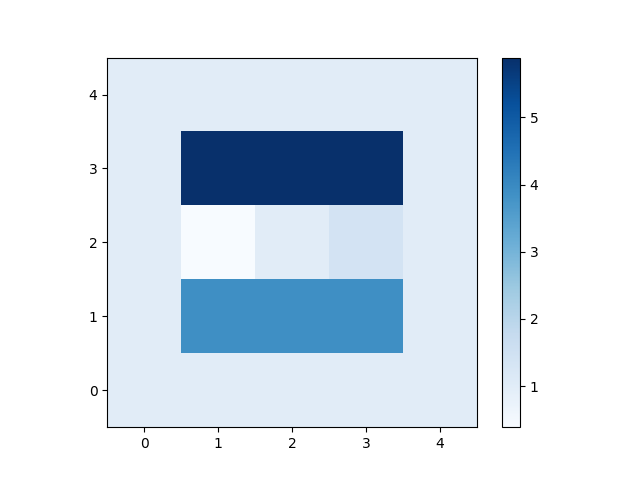
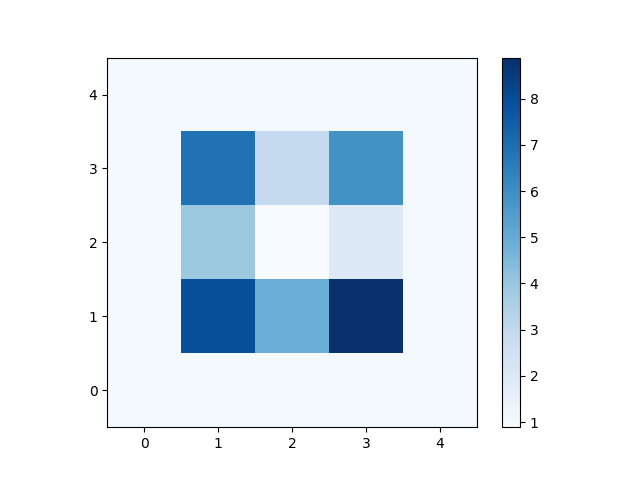
milestone 5 100%

diff --git a/milestone5.py b/milestone5.py
@@ -1,0 +1,72 @@
+import numpy as np
+import matplotlib.pyplot as plt
+from milestone2 import collision_term, W, rho, equilibruim_distribution, mu
+from milestone1 import direction, create_density_grid, animate, plot_density_grid, result_repo, streaming2D
+from milestone4 import set_couette_boundary_fixed
+import random
+
+# def equilibrium_distribution_efficient(rho, U_vector) :
+
+def set_poiseuille_boundary(probability_density_grid) :
+    Rhin = np.full(probability_density_grid.shape[1:], 1.1)
+    Rhout = np.full(probability_density_grid.shape[1:], .9)
+    
+    velocity_grid = mu(probability_density_grid)
+    
+    
+    
+    uN = np.repeat(velocity_grid[:, :, -2][:, :, np.newaxis], velocity_grid.shape[2], axis=2)
+    u1 = np.repeat(velocity_grid[:, :, 1][:, :, np.newaxis], velocity_grid.shape[2], axis=2)
+    
+    
+    
+    feq_Rhin_uN = equilibruim_distribution(Rhin, uN)[:, :, -2] # XN
+    feq_Rhout_u1 = equilibruim_distribution(Rhout, u1)[:, :, 1] #X1
+    feq = equilibruim_distribution(rho(probability_density_grid), velocity_grid)
+
+
+
+    fill1 = feq_Rhin_uN + (probability_density_grid[:, :, -2] - feq[:, :, -2]) # x N
+    fill2 = feq_Rhout_u1 + (probability_density_grid[:, :, 1] - feq[:, :, 1]) # x 1
+
+
+
+    probability_density_grid[[1, 5, 8], :, -1] = fill2[[1, 5, 8]] # x N + 1
+    probability_density_grid[[1, 5, 8], :, 0] = fill1[[1, 5, 8]] # x 0
+    
+    return probability_density_grid
+
+def create_poiseuille_grid() :
+    probability_density_grid = create_density_grid(uniform=True, rand=False, x_shape=52, y_shape=302, uniform_value=.1)
+    return probability_density_grid
+    
+
+def plot_velocity_profile() :
+    framestop = 1000
+    omega = 1.2
+    tmax = 8000
+    collision_function = lambda density_grid : collision_term(density_grid, omega)
+    density_grid_plot = create_poiseuille_grid()
+
+    plot_arr = np.zeros(300)
+    
+    plt.figure()
+    for i in range(framestop) :
+        print(i, '/', framestop, end='\r')
+        density_grid_plot = streaming2D(density_grid_plot, direction, collision=collision_function, boundary=set_couette_boundary_fixed, pressure=set_poiseuille_boundary, test=True)
+        plot_arr = mu(density_grid_plot)[0, :, 150]
+        if i%100 == 0 and i != 0:
+            plt.plot(plot_arr, label=str(i))
+        
+    plt.xlabel('Y axis')
+    plt.ylabel('Velocity')
+    plt.legend()
+    plt.savefig(result_repo+'velocity_on_axis_poiseuille_flow.png')
+    plt.close()
+    
+    
+if __name__ == "__main__" :
+    set_poiseuille_boundary(create_density_grid(uniform=True, rand=False, x_shape=302, y_shape=302))
+    collision_function = lambda density_grid : collision_term(density_grid, .7)
+    animate(file="poiseuille_boundary.mp4", velocity_active=True, collision=collision_function, create_grid=create_poiseuille_grid, frames=200, interval=100, boundary=set_couette_boundary_fixed, pressure=set_poiseuille_boundary)
+    plot_velocity_profile()

diff --git a/milestone1.py b/milestone1.py
@@ -43,38 +43,46 @@ def plot_density_grid(density_grid, file=None) :
 
 
 #---------------------------------------------------------------------------------------------
-def streaming2D(arr, direction, test=False, collision=False, boundary=False) :
-    acc = np.zeros_like(arr)
+def streaming2D(arr, direction, test=False, collision=False, boundary=False, pressure=False) :
+    acc = np.copy(arr)
+    
+    if pressure :
+        arr = pressure(arr)
     
     for i in range(direction.shape[1]) :
-        acc[i, :, :] = np.roll(arr[i, :, :], shift=(direction[1, i], direction[0, i]), axis=(0, 1))
+        arr[i, :, :] = np.roll(arr[i, :, :], shift=(direction[1, i], direction[0, i]), axis=(0, 1))
   
     if boundary :
-        acc = boundary(acc)      
+        arr = boundary(arr)      
     if collision :
-       acc = collision(acc)
+       arr = collision(arr)
     if test :
         try :
             assert np.isclose(arr.sum(), acc.sum(), rtol=10**(-2)) # testing if the mass is conserved after one stream
         except :
             print('AssertionError : the mass is not conserved during the stream.\n probability before : ', np.sum(arr), ' probablity after :',  np.sum(acc))
             raise AssertionError
-    # print(arr.sum(), "/" , acc.sum())
-    return acc
+    return arr
 #---------------------------------------------------------------------------------------------
 
-def animate(file=None, frames=200, interval=100, collision=None, cmap="Blues", create_grid=(lambda : create_density_grid(x_shape=30, y_shape=30)), boundary=False) :
+def animate(file=None, frames=200, interval=100, velocity_active=False, collision=None, pressure=False, cmap="Blues", create_grid=(lambda : create_density_grid(x_shape=30, y_shape=30)), boundary=False) :
     density_grid_animate = create_grid()
     total_density = density_grid_animate.sum(axis=0)
     fig = plt.figure()
-    im = plt.imshow(total_density, animated=True, cmap=cmap)
-    i = 0 
+    if velocity_active :
+        im = plt.imshow(velocity(density_grid_animate)[0, :, :], animated=True, cmap=cmap)
+    else :
+        im = plt.imshow(total_density, animated=True, cmap=cmap)
+    i = 0
+    
     def updatefig(frame) :
         nonlocal density_grid_animate, i
-        #print(velocity_grid_animate.sum())
         i += 1
-        density_grid_animate= streaming2D(density_grid_animate, direction, collision=collision, test=True, boundary=boundary)
-        frame = density_grid_animate.sum(axis=0)
+        density_grid_animate= streaming2D(density_grid_animate, direction, collision=collision, test=True, boundary=boundary, pressure=pressure)
+        if velocity_active :
+            frame  = velocity(density_grid_animate)[0, :, :]
+        else :
+            frame = density_grid_animate.sum(axis=0)
         im.set_array(frame)
         print('frame :', i, "/", frames, end='\r')
         return im,
